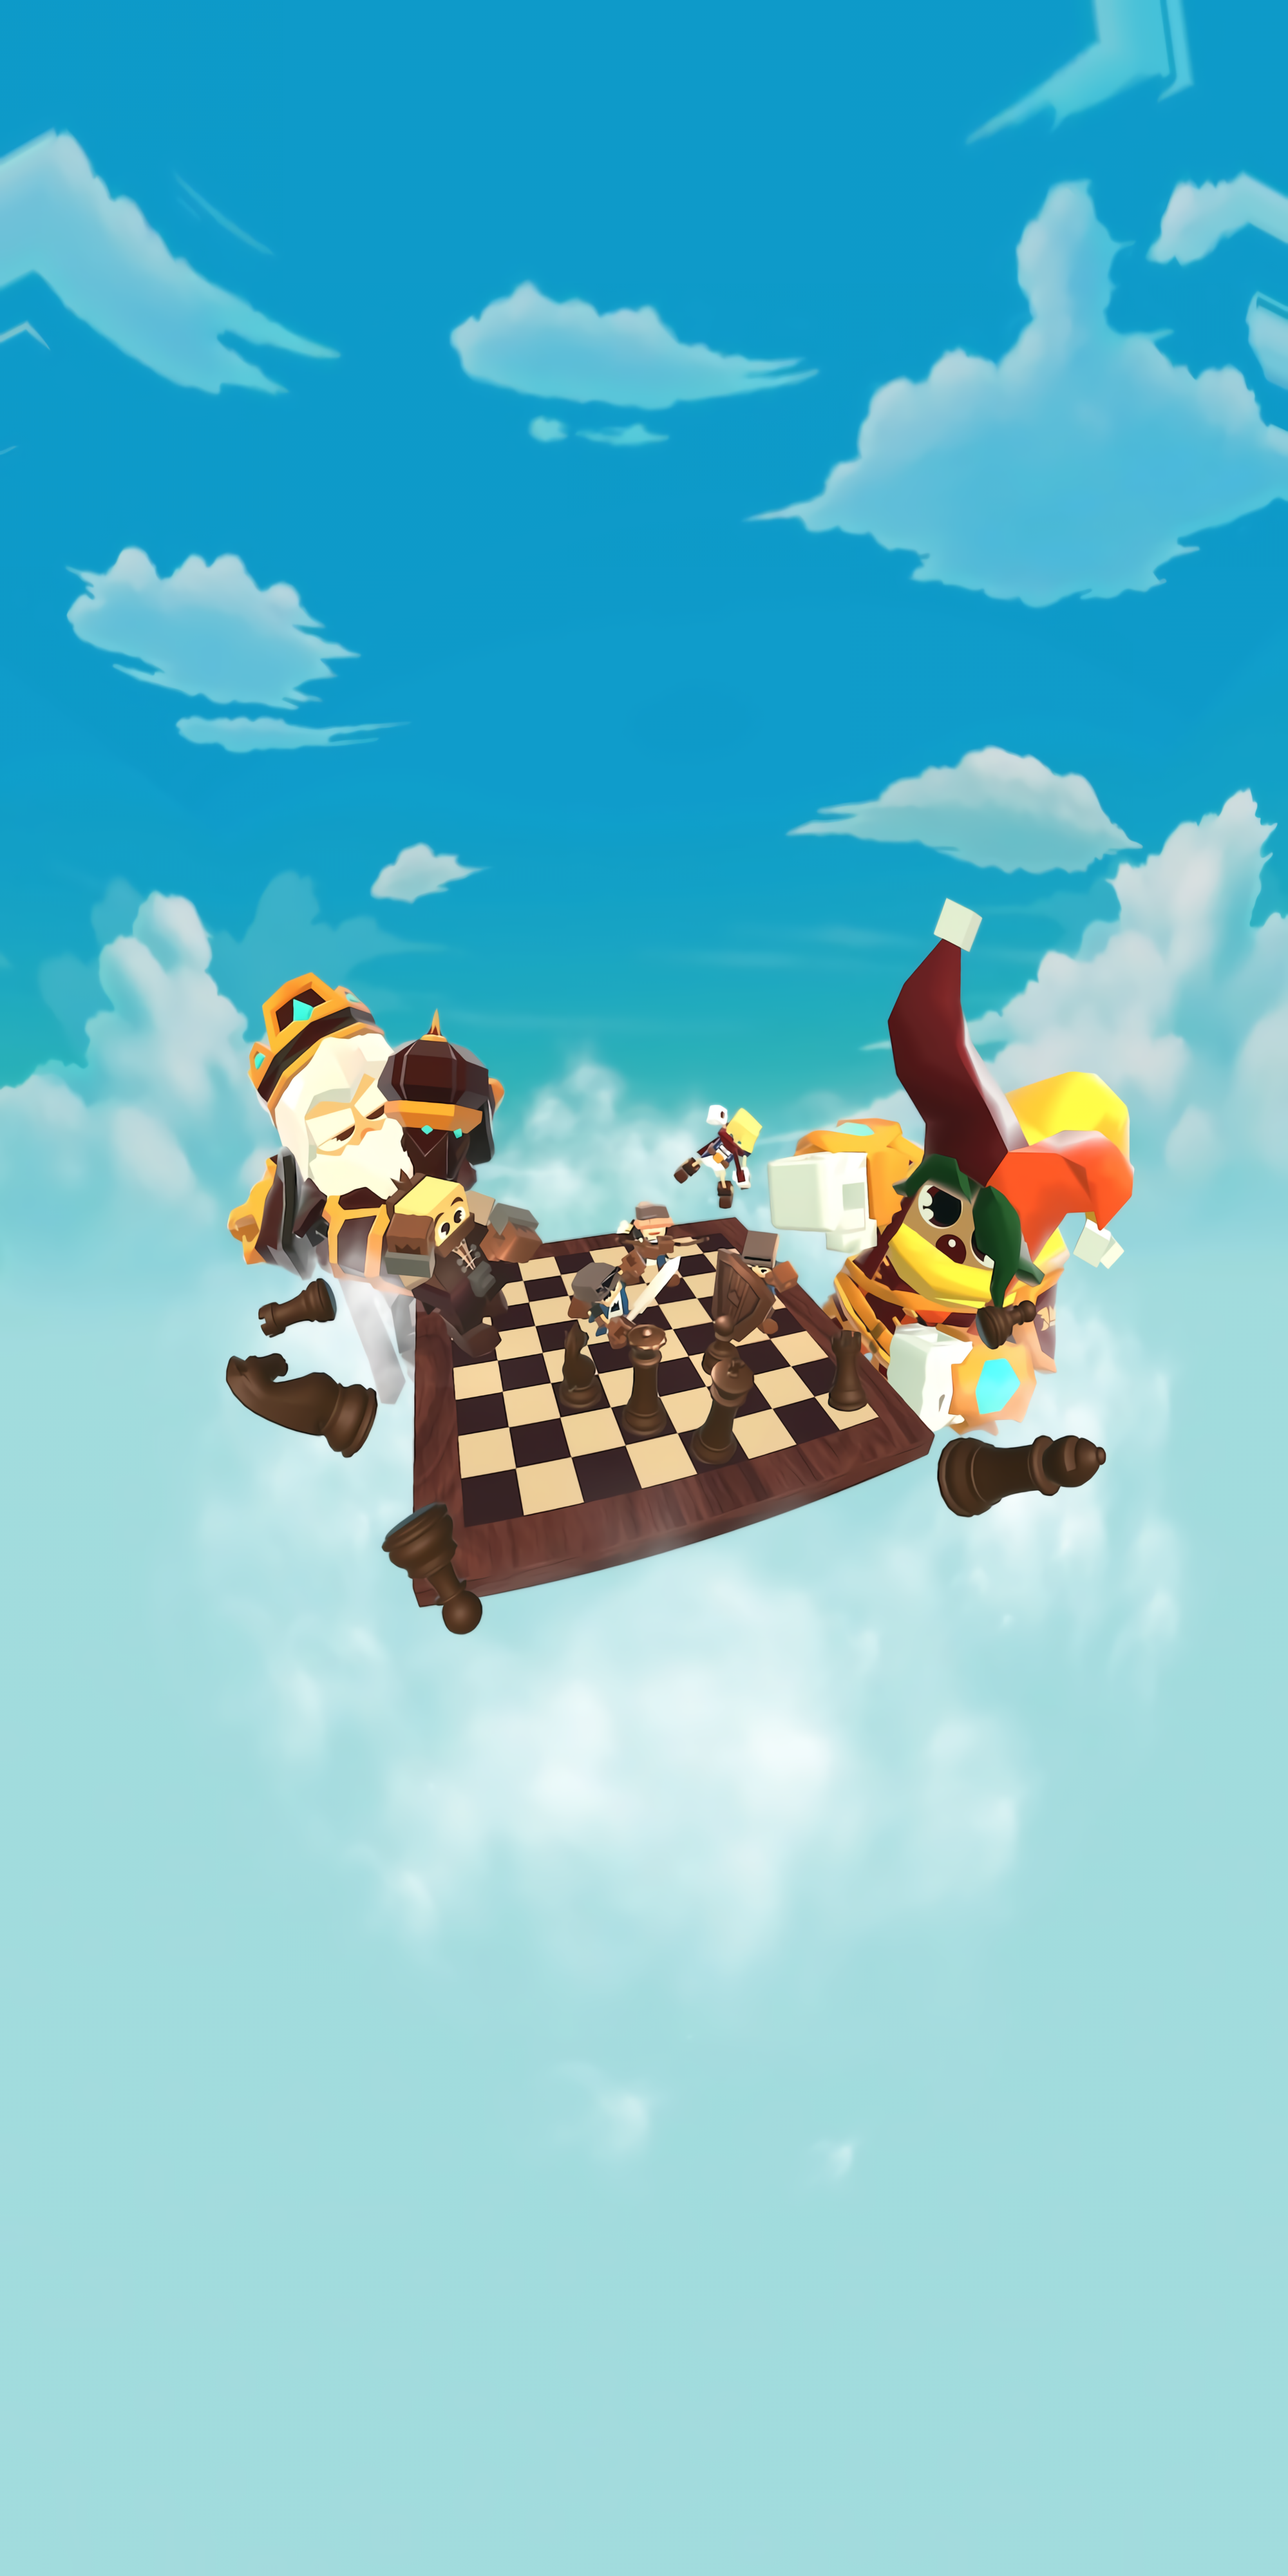
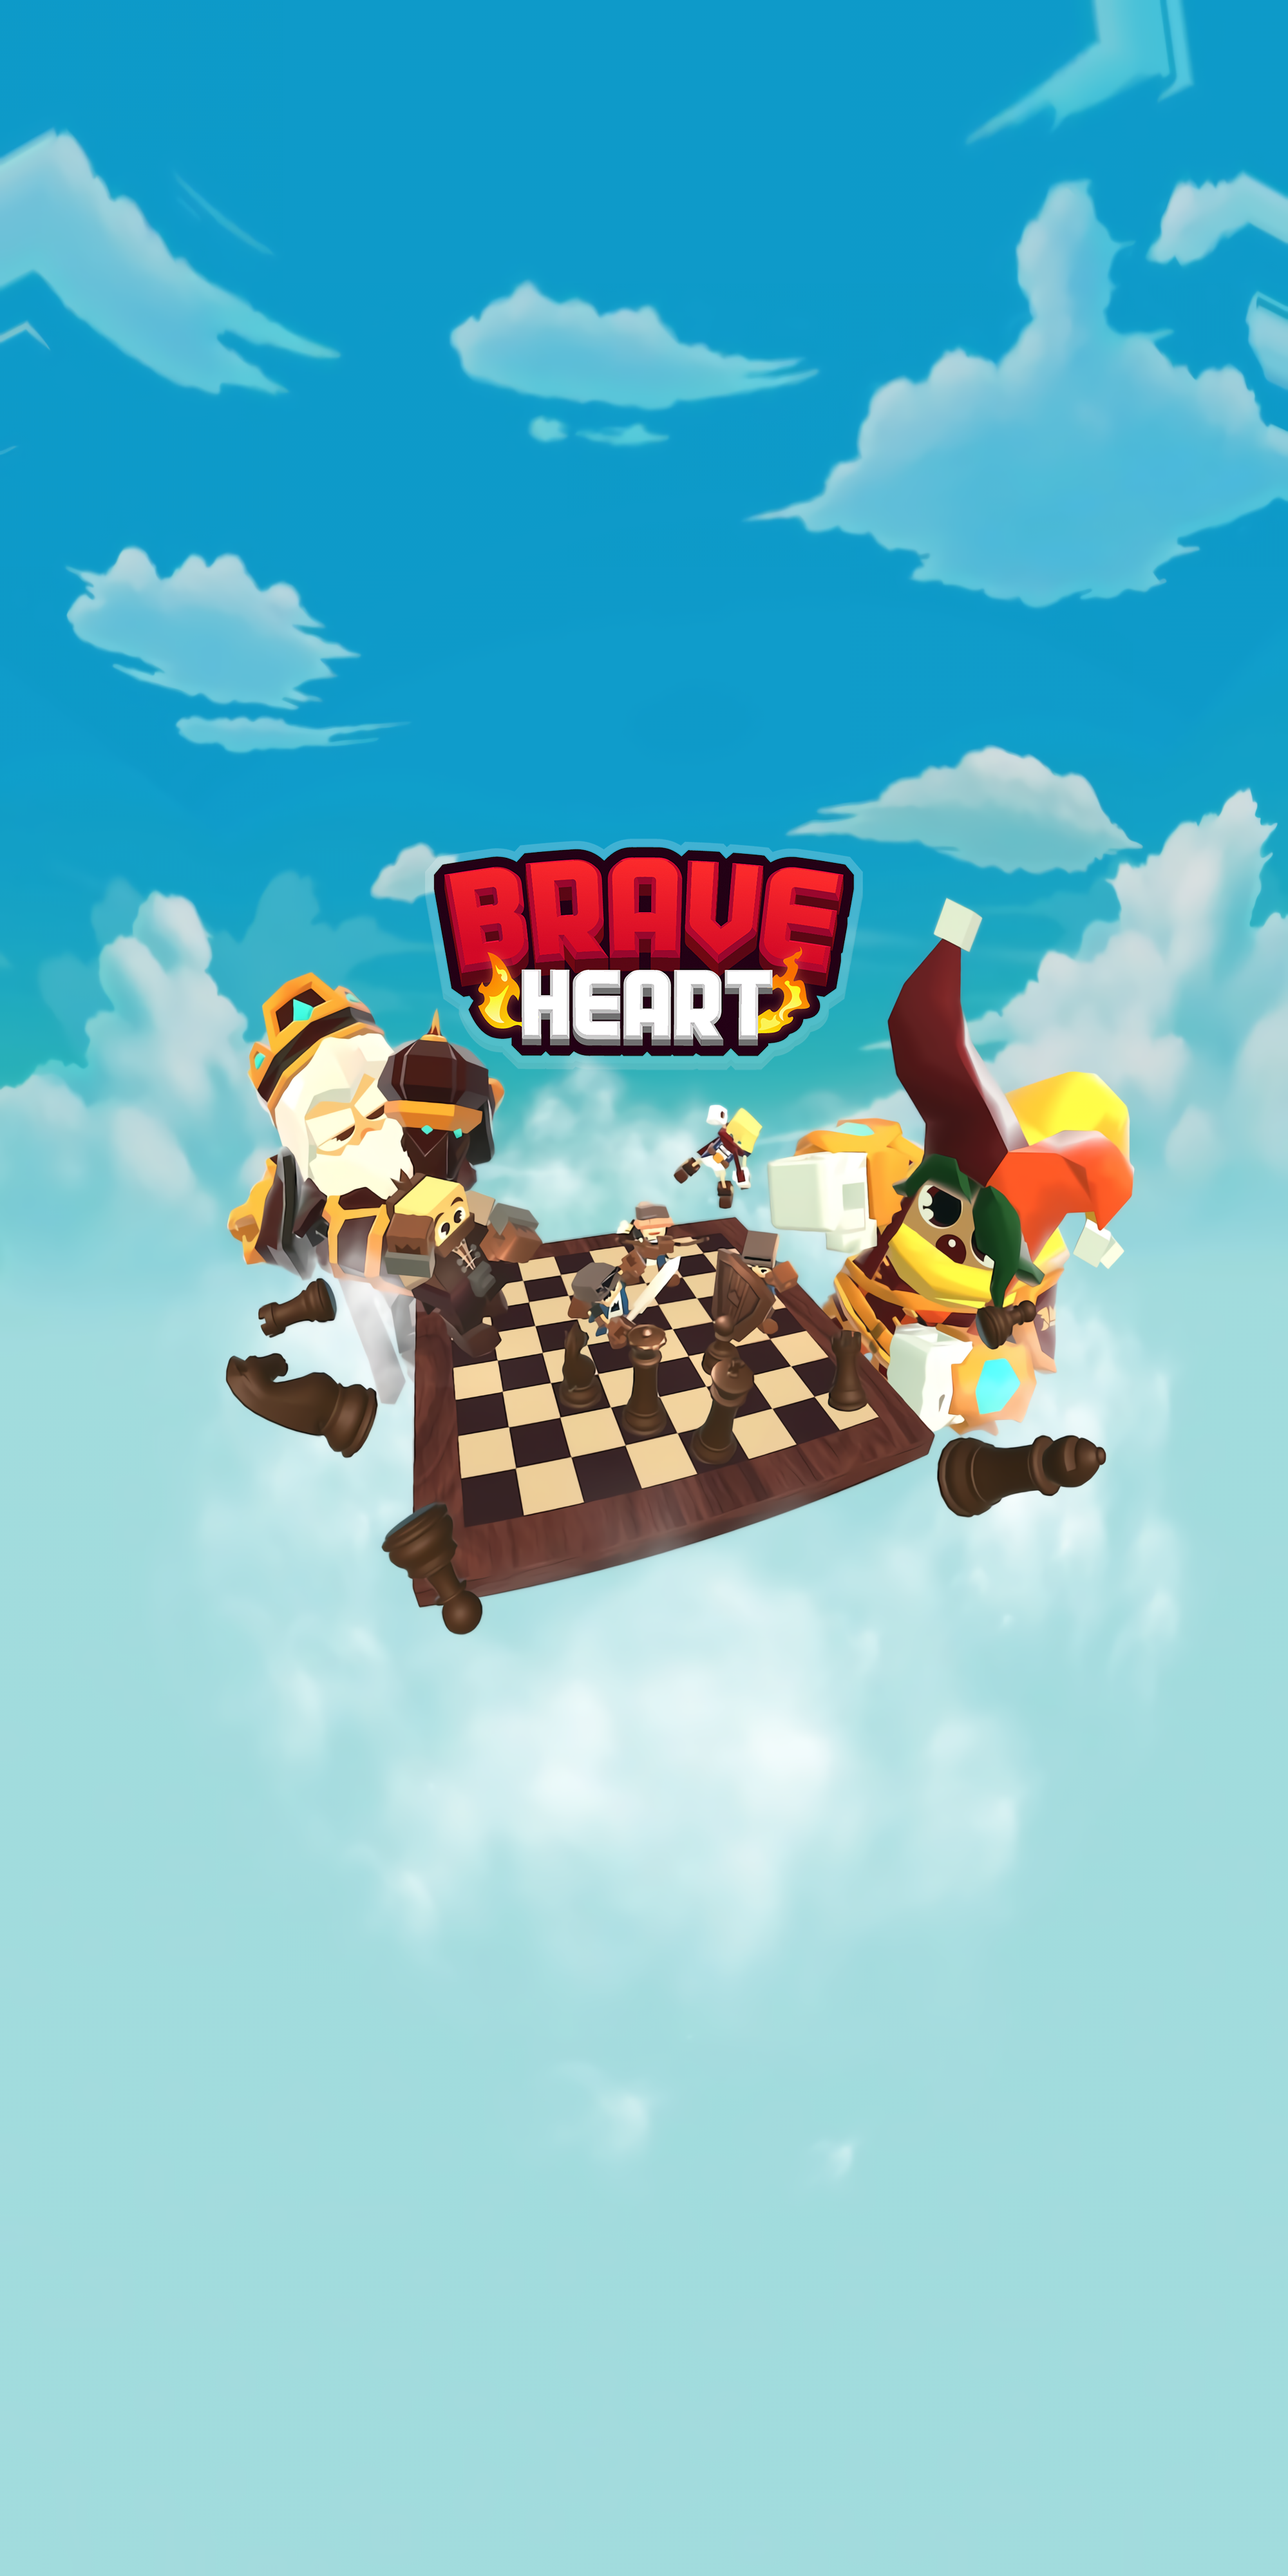
qqqwww

Changed region(s): [[0.31, 0.3125, 0.682, 0.4375]]

diff --git a/src/main/resources/static/assets/css/main.css b/src/main/resources/static/assets/css/main.css
@@ -631,14 +631,13 @@ body {
     min-width: 150px;
 }
 
-@media (max-width: 320px) {
+/* @media (max-width: 320px) {
     .banner--img{
         max-width: 55%;
         height: auto;
         display: block;
         margin: auto;
         margin-top: 60%;
-        /* margin-bottom: 190px; */
     }
 }
 @media (min-width: 321px) and (max-width: 768px) {
@@ -648,7 +647,6 @@ body {
         display: block;
         margin: auto;
         margin-top: 40%;
-        /* margin-bottom: 190px; */
     }
 }
 @media (min-width: 769px) and (max-width: 900px) {
@@ -658,7 +656,6 @@ body {
         display: block;
         margin: auto;
         margin-top: 33%;
-        /* margin-bottom: 190px; */
     }
 }
 @media (min-width: 900px) {
@@ -668,9 +665,8 @@ body {
         display: block;
         margin: auto;
         margin-top: 2%;
-        /* margin-bottom: 190px; */
     }
-}
+} */
 
 @media (max-width: 900px) {
     /* .intro--banner {

diff --git a/target/classes/static/assets/css/main.css b/target/classes/static/assets/css/main.css
@@ -631,14 +631,13 @@ body {
     min-width: 150px;
 }
 
-@media (max-width: 320px) {
+/* @media (max-width: 320px) {
     .banner--img{
         max-width: 55%;
         height: auto;
         display: block;
         margin: auto;
         margin-top: 60%;
-        /* margin-bottom: 190px; */
     }
 }
 @media (min-width: 321px) and (max-width: 768px) {
@@ -648,7 +647,6 @@ body {
         display: block;
         margin: auto;
         margin-top: 40%;
-        /* margin-bottom: 190px; */
     }
 }
 @media (min-width: 769px) and (max-width: 900px) {
@@ -658,7 +656,6 @@ body {
         display: block;
         margin: auto;
         margin-top: 33%;
-        /* margin-bottom: 190px; */
     }
 }
 @media (min-width: 900px) {
@@ -668,9 +665,8 @@ body {
         display: block;
         margin: auto;
         margin-top: 2%;
-        /* margin-bottom: 190px; */
     }
-}
+} */
 
 @media (max-width: 900px) {
     /* .intro--banner {

diff --git a/src/main/resources/templates/index.html b/src/main/resources/templates/index.html
@@ -48,7 +48,7 @@
           <div class="l-section section section--is-active">
             <div class="intro">
               <div class="intro--banner">
-                  <img  class="banner--img" src="assets/img/braveheart_logo.png" />
+                  <!-- <img  class="banner--img" src="assets/img/braveheart_logo.png" /> -->
                 <div class="intro--options" style="display: none;">
                   <a href="https://play.google.com/" target="_blank">
                     <img  src="assets/img/googlePlay.png"/>

diff --git a/target/classes/templates/index.html b/target/classes/templates/index.html
@@ -48,7 +48,7 @@
           <div class="l-section section section--is-active">
             <div class="intro">
               <div class="intro--banner">
-                  <img  class="banner--img" src="assets/img/braveheart_logo.png" />
+                  <!-- <img  class="banner--img" src="assets/img/braveheart_logo.png" /> -->
                 <div class="intro--options" style="display: none;">
                   <a href="https://play.google.com/" target="_blank">
                     <img  src="assets/img/googlePlay.png"/>
